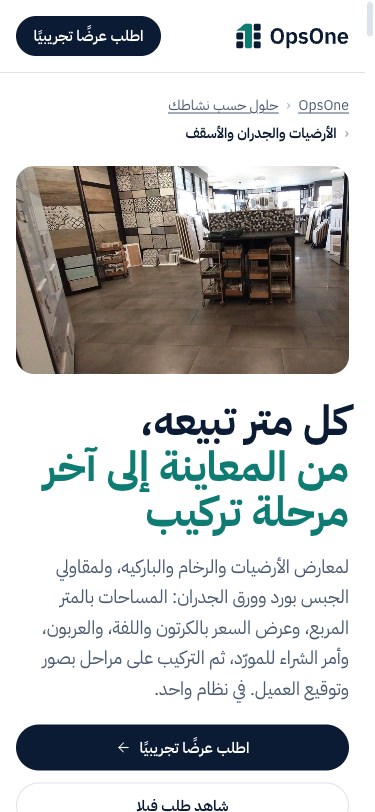
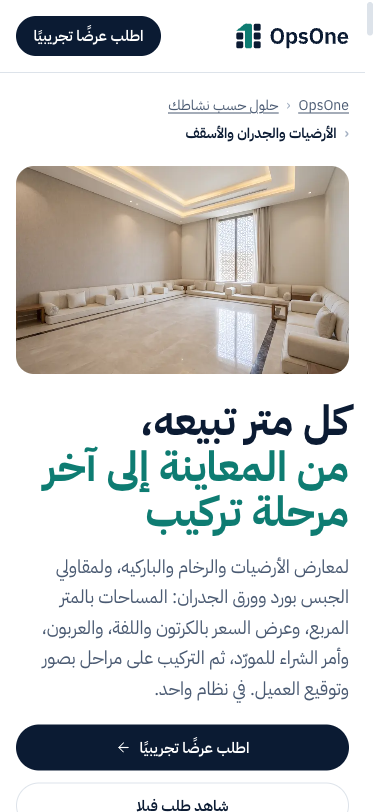
feat(marketing): flooring and smart-home page images from Magnific
Replace the photos on the flooring, walls and ceilings page and the
smart home, lighting and security page with eight AI images generated
on the Magnific account (Nano Banana 2.1, 2k, 520 credits): per page a
Saudi villa hero, a Riyadh showroom, a store shelf and a man's hand on
site. WebP in several widths, new OG images, credits.json updated, old
JPEGs removed. The smart-home showroom and field lanes now show photos
instead of the code drawings. Both compose.mjs files accept an optional
srcset for channel images. Home page cards point to the new heroes.

Changed region(s): [[0.0293, 0.1847, 0.9387, 0.4618]]

diff --git a/marketing/site-next/solutions/smart-home-lighting-security/index.html b/marketing/site-next/solutions/smart-home-lighting-security/index.html
@@ -29,7 +29,7 @@
 <link rel="manifest" href="../../site.webmanifest">
 <link rel="preload" href="../../assets/fonts/IBMPlexSansArabic-Bold.woff2" as="font" type="font/woff2" crossorigin>
 <link rel="preload" href="../../assets/fonts/IBMPlexSansArabic-Regular.woff2" as="font" type="font/woff2" crossorigin>
-<link rel="preload" as="image" href="img/sh-hero-1024.jpg" imagesrcset="img/sh-hero-820.jpg 820w, img/sh-hero-1024.jpg 1024w" imagesizes="(max-width: 760px) 100vw, 45vw" fetchpriority="high">
+<link rel="preload" as="image" href="img/sh-hero-1200.webp" imagesrcset="img/sh-hero-820.webp 820w, img/sh-hero-1200.webp 1200w, img/sh-hero-1600.webp 1600w" imagesizes="(max-width: 760px) 100vw, 45vw" fetchpriority="high">
 <link rel="stylesheet" href="../../styles.css">
 <link rel="stylesheet" href="../sector.css">
 <link rel="stylesheet" href="page.css">
@@ -63,7 +63,7 @@
         <a class="btn btn--quiet" href="#order">شاهد جدول أجهزة فيلا</a>
       </div>
     </div>
-    <figure class="shero__photo"><img src="img/sh-hero-1024.jpg" srcset="img/sh-hero-820.jpg 820w, img/sh-hero-1024.jpg 1024w" sizes="(max-width: 760px) 100vw, 45vw" width="1024" height="683" alt="كاميرتا مراقبة على شكل قبة مثبتتان على عمود" fetchpriority="high" decoding="async"></figure>
+    <figure class="shero__photo"><img src="img/sh-hero-1200.webp" srcset="img/sh-hero-820.webp 820w, img/sh-hero-1200.webp 1200w, img/sh-hero-1600.webp 1600w" sizes="(max-width: 760px) 100vw, 45vw" width="1200" height="805" alt="صالة فيلا مساءً بإضاءة مخفية في السقف والرفوف، ولوحة تحكم ذكية على الجدار، وكاميرا صغيرة في زاوية السقف" fetchpriority="high" decoding="async"></figure>
   </div>
   <div class="route" id="route">
     <div class="stations stations--6" role="group" aria-label="رحلة طلب فيلا ORD-2026-00317" id="stations" style="--n:6">
@@ -161,11 +161,9 @@
   <div class="wrap">
     <div class="sec-head"><h2 class="head" id="channels-title">ثلاث قنوات لبيع الأنظمة الذكية، ونظام واحد</h2><p class="lead">صالة العرض، ومتجر للأجهزة الجاهزة، والبيع الميداني في موقع العميل. كلها تصل إلى طلب واحد، وتقرير لكل قناة ولكل بائع.</p></div>
     <ol class="lanes">
-      <li class="lane"><figure class="lane__photo lane__photo--art"><svg class="art" viewBox="0 0 600 400" direction="ltr" role="img" aria-label="لوحة مشاهد ذكية على جدار بأربعة أزرار: ترحيب، وسهرة، ونوم، وخروج، ومشهد السهرة مضاء"><rect class="wall" x="0" y="0" width="600" height="400"/><circle class="glow" cx="300" cy="200" r="190"/><rect class="panel" x="215" y="58" width="170" height="284" rx="18"/><rect class="key" x="233" y="78" width="134" height="52" rx="10"/><text class="klbl" x="300" y="110" text-anchor="middle">ترحيب</text><rect class="key key--on" x="233" y="142" width="134" height="52" rx="10"/><text class="klbl" x="290" y="174" text-anchor="middle">سهرة</text><circle class="led led--on" cx="345" cy="168" r="5"/><rect class="key" x="233" y="206" width="134" height="52" rx="10"/><text class="klbl" x="300" y="238" text-anchor="middle">نوم</text><rect class="key" x="233" y="270" width="134" height="52" rx="10"/><text class="klbl" x="300" y="302" text-anchor="middle">خروج</text></svg></figure><div class="lane__text"><span class="lane__n nums" aria-hidden="true">1/3</span><h3><svg class="ic" aria-hidden="true"><use href="#i-store"/></svg>صالة العرض</h3><p>زائر الصالة الذي جرّب المفاتيح والمشاهد يُسجَّل اهتمامًا، ويُحجز له موعد معاينة، ثم يتحول إلى طلب بضغطة، ومعه ما طلبه ومن يتابعه.</p></div></li>
-      <li class="lane"><figure class="lane__photo"><img src="img/sh-ceiling-1000.jpg" width="1000" height="750" alt="سقف وجدران بألواح خشبية تضيئها سبوتات مخفية في مجاري السقف" loading="lazy" decoding="async"></figure><div class="lane__text"><span class="lane__n nums" aria-hidden="true">2/3</span><h3><svg class="ic" aria-hidden="true"><use href="#i-shopping-bag"/></svg>متجر الإنارة والأجهزة الجاهزة</h3><p>اللمبات الذكية والسبوتات والكاميرات الجاهزة تُباع من المخزون نفسه بدفع إلكتروني، وترسل لعميلك رابط سلة جاهزة بما يحتاجه.</p></div></li>
-      <li class="lane"><figure class="lane__photo lane__photo--art"><svg class="art" viewBox="0 0 600 400" direction="ltr" role="img" aria-label="جدار في مرحلة العظم تمر فيه مواسير التمديد إلى علب المفتاح والمقبس ونقطتي الكاميرا والشبكة"><rect class="wall" x="0" y="0" width="600" height="400"/><rect class="brick" x="-84" y="28" width="84" height="34"/><rect class="brick" x="0" y="28" width="84" height="34"/><rect class="brick" x="84" y="28" width="84" height="34"/><rect class="brick" x="168" y="28" width="84" height="34"/><rect class="brick" x="252" y="28" width="84" height="34"/><rect class="brick" x="336" y="28" width="84" height="34"/><rect class="brick" x="420" y="28" width="84" height="34"/><rect class="brick" x="504" y="28" width="84" height="34"/><rect class="brick" x="588" y="28" width="84" height="34"/><rect class="brick" x="-42" y="62" width="84" height="34"/><rect class="brick" x="42" y="62" width="84" height="34"/><rect class="brick" x="126" y="62" width="84" height="34"/><rect class="brick" x="210" y="62" width="84" height="34"/><rect class="brick" x="294" y="62" width="84" height="34"/><rect class="brick" x="378" y="62" width="84" height="34"/><rect class="brick" x="462" y="62" width="84" height="34"/><rect class="brick" x="546" y="62" width="84" height="34"/><rect class="brick" x="630" y="62" width="84" height="34"/><rect class="brick" x="-84" y="96" width="84" height="34"/><rect class="brick" x="0" y="96" width="84" height="34"/><rect class="brick" x="84" y="96" width="84" height="34"/><rect class="brick" x="168" y="96" width="84" height="34"/><rect class="brick" x="252" y="96" width="84" height="34"/><rect class="brick" x="336" y="96" width="84" height="34"/><rect class="brick" x="420" y="96" width="84" height="34"/><rect class="brick" x="504" y="96" width="84" height="34"/><rect class="brick" x="588" y="96" width="84" height="34"/><rect class="brick" x="-42" y="130" width="84" height="34"/><rect class="brick" x="42" y="130" width="84" height="34"/><rect class="brick" x="126" y="130" width="84" height="34"/><rect class="brick" x="210" y="130" width="84" height="34"/><rect class="brick" x="294" y="130" width="84" height="34"/><rect class="brick" x="378" y="130" width="84" height="34"/><rect class="brick" x="462" y="130" width="84" height="34"/><rect class="brick" x="546" y="130" width="84" height="34"/><rect class="brick" x="630" y="130" width="84" height="34"/><rect class="brick" x="-84" y="164" width="84" height="34"/><rect class="brick" x="0" y="164" width="84" height="34"/><rect class="brick" x="84" y="164" width="84" height="34"/><rect class="brick" x="168" y="164" width="84" height="34"/><rect class="brick" x="252" y="164" width="84" height="34"/><rect class="brick" x="336" y="164" width="84" height="34"/><rect class="brick" x="420" y="164" width="84" height="34"/><rect class="brick" x="504" y="164" width="84" height="34"/><rect class="brick" x="588" y="164" width="84" height="34"/><rect class="brick" x="-42" y="198" width="84" height="34"/><rect class="brick" x="42" y="198" width="84" height="34"/><rect class="brick" x="126" y="198" width="84" height="34"/><rect class="brick" x="210" y="198" width="84" height="34"/><rect class="brick" x="294" y="198" width="84" height="34"/><rect class="brick" x="378" y="198" width="84" height="34"/><rect class="brick" x="462" y="198" width="84" height="34"/><rect class="brick" x="546" y="198" width="84" height="34"/><rect class="brick" x="630" y="198" width="84" height="34"/><rect class="brick" x="-84" y="232" width="84" height="34"/><rect class="brick" x="0" y="232" width="84" height="34"/><rect class="brick" x="84" y="232" width="84" height="34"/><rect class="brick" x="168" y="232" width="84" height="34"/><rect class="brick" x="252" y="232" width="84" height="34"/><rect class="brick" x="336" y="232" width="84" height="34"/><rect class="brick" x="420" y="232" width="84" height="34"/><rect class="brick" x="504" y="232" width="84" height="34"/><rect class="brick" x="588" y="232" width="84" height="34"/><rect class="brick" x="-42" y="266" width="84" height="34"/><rect class="brick" x="42" y="266" width="84" height="34"/><rect class="brick" x="126" y="266" width="84" height="34"/><rect class="brick" x="210" y="266" width="84" height="34"/><rect class="brick" x="294" y="266" width="84" height="34"/><rect class="brick" x="378" y="266" width="84" height="34"/><rect class="brick" x="462" y="266" width="84" height="34"/><rect class="brick" x="546" y="266" width="84" height="34"/><rect class="brick" x="630" y="266" width="84" height="34"/><rect class="brick" x="-84" y="300" width="84" height="34"/><rect class="brick" x="0" y="300" width="84" height="34"/><rect class="brick" x="84" y="300" width="84" height="34"/><rect class="brick" x="168" y="300" width="84" height="34"/><rect class="brick" x="252" y="300" width="84" height="34"/><rect class="brick" x="336" y="300" width="84" height="34"/><rect class="brick" x="420" y="300" width="84" height="34"/><rect class="brick" x="504" y="300" width="84" height="34"/><rect class="brick" x="588" y="300" width="84" height="34"/><rect class="brick" x="-42" y="334" width="84" height="34"/><rect class="brick" x="42" y="334" width="84" height="34"/><rect class="brick" x="126" y="334" width="84" height="34"/><rect class="brick" x="210" y="334" width="84" height="34"/><rect class="brick" x="294" y="334" width="84" height="34"/><rect class="brick" x="378" y="334" width="84" height="34"/><rect class="brick" x="462" y="334" width="84" height="34"/><rect class="brick" x="546" y="334" width="84" height="34"/><rect class="brick" x="630" y="334" width="84" height="34"/><rect class="slab" x="0" y="0" width="600" height="28"/><rect class="slab" x="0" y="372" width="600" height="28"/>
-<path class="duct" d="M110 28 V200"/><path class="duct" d="M230 28 V150 H300 V300"/><path class="duct duct--data" d="M470 28 V92"/><path class="duct duct--data" d="M520 372 V290 H420 V250"/><rect class="box" x="92" y="200" width="36" height="36" rx="4"/><rect class="box" x="282" y="300" width="36" height="36" rx="4"/><rect class="box box--data" x="452" y="92" width="36" height="36" rx="4"/><rect class="box box--data" x="402" y="214" width="36" height="36" rx="4"/>
-<g class="alb"><text x="136" y="223">مفتاح</text><text x="326" y="323">مقبس</text><text x="444" y="115" text-anchor="end">كاميرا</text><text x="394" y="237" text-anchor="end">Cat6</text></g></svg></figure><div class="lane__text"><span class="lane__n nums" aria-hidden="true">3/3</span><h3><svg class="ic" aria-hidden="true"><use href="#i-map-pin"/></svg>البيع الميداني في موقع العميل</h3><p>يوزّع المشرف الفرصة أو طلب المعاينة على بائع ميداني، فيزور الفيلا وهي في العظم، ويسجّل صور الموقع ومقاساته من جواله، ثم يرسل عرض السعر ورابط توقيع العقد. ويُحسب الطلب على قناة البيع الميداني، وعمولته للبائع.</p></div></li>
+      <li class="lane"><figure class="lane__photo"><img src="img/sh-showroom-1200.webp" srcset="img/sh-showroom-640.webp 640w, img/sh-showroom-1200.webp 1200w" sizes="(max-width: 760px) 100vw, 50vw" width="1200" height="805" alt="صالة عرض أنظمة ذكية: جدار من المفاتيح ولوحات المشاهد، وشاشة تحكم، وركن جلوس بإضاءة قابلة للتعتيم" loading="lazy" decoding="async"></figure><div class="lane__text"><span class="lane__n nums" aria-hidden="true">1/3</span><h3><svg class="ic" aria-hidden="true"><use href="#i-store"/></svg>صالة العرض</h3><p>زائر الصالة الذي جرّب المفاتيح والمشاهد يُسجَّل اهتمامًا، ويُحجز له موعد معاينة، ثم يتحول إلى طلب بضغطة، ومعه ما طلبه ومن يتابعه.</p></div></li>
+      <li class="lane"><figure class="lane__photo"><img src="img/sh-store-1200.webp" srcset="img/sh-store-640.webp 640w, img/sh-store-1200.webp 1200w" sizes="(max-width: 760px) 100vw, 50vw" width="1200" height="805" alt="رف متجر عليه لمبات ذكية وسبوتات وكاميرات داخلية وأجراس باب بالفيديو، وصناديقها البيضاء" loading="lazy" decoding="async"></figure><div class="lane__text"><span class="lane__n nums" aria-hidden="true">2/3</span><h3><svg class="ic" aria-hidden="true"><use href="#i-shopping-bag"/></svg>متجر الإنارة والأجهزة الجاهزة</h3><p>اللمبات الذكية والسبوتات والكاميرات الجاهزة تُباع من المخزون نفسه بدفع إلكتروني، وترسل لعميلك رابط سلة جاهزة بما يحتاجه.</p></div></li>
+      <li class="lane"><figure class="lane__photo"><img src="img/sh-survey-1200.webp" srcset="img/sh-survey-640.webp 640w, img/sh-survey-1200.webp 1200w" sizes="(max-width: 760px) 100vw, 50vw" width="1200" height="805" alt="يد رجل بكم ثوب أبيض تحمل جهازًا لوحيًا بمخطط الفيلا، أمام جدار في مرحلة العظم تمر فيه مواسير التمديد إلى علب المفاتيح ونقطة الكاميرا" loading="lazy" decoding="async"></figure><div class="lane__text"><span class="lane__n nums" aria-hidden="true">3/3</span><h3><svg class="ic" aria-hidden="true"><use href="#i-map-pin"/></svg>البيع الميداني في موقع العميل</h3><p>يوزّع المشرف الفرصة أو طلب المعاينة على بائع ميداني، فيزور الفيلا وهي في العظم، ويسجّل صور الموقع ومقاساته من جواله، ثم يرسل عرض السعر ورابط توقيع العقد. ويُحسب الطلب على قناة البيع الميداني، وعمولته للبائع.</p></div></li>
     </ol>
   </div>
 </section>

diff --git a/marketing/site-next/solutions/flooring-walls-ceilings/index.html b/marketing/site-next/solutions/flooring-walls-ceilings/index.html
@@ -29,7 +29,7 @@
 <link rel="manifest" href="../../site.webmanifest">
 <link rel="preload" href="../../assets/fonts/IBMPlexSansArabic-Bold.woff2" as="font" type="font/woff2" crossorigin>
 <link rel="preload" href="../../assets/fonts/IBMPlexSansArabic-Regular.woff2" as="font" type="font/woff2" crossorigin>
-<link rel="preload" as="image" href="img/fwc-hero-1400.jpg" imagesrcset="img/fwc-hero-820.jpg 820w, img/fwc-hero-1400.jpg 1400w" imagesizes="(max-width: 760px) 100vw, 45vw" fetchpriority="high">
+<link rel="preload" as="image" href="img/fwc-hero-1200.webp" imagesrcset="img/fwc-hero-820.webp 820w, img/fwc-hero-1200.webp 1200w, img/fwc-hero-1600.webp 1600w" imagesizes="(max-width: 760px) 100vw, 45vw" fetchpriority="high">
 <link rel="stylesheet" href="../../styles.css">
 <link rel="stylesheet" href="../sector.css">
 <link rel="stylesheet" href="page.css">
@@ -63,7 +63,7 @@
         <a class="btn btn--quiet" href="#order">شاهد طلب فيلا</a>
       </div>
     </div>
-    <figure class="shero__photo"><img src="img/fwc-hero-1400.jpg" srcset="img/fwc-hero-820.jpg 820w, img/fwc-hero-1400.jpg 1400w" sizes="(max-width: 760px) 100vw, 45vw" width="1400" height="1050" alt="معرض بلاط وأرضيات: ألواح بنقشة الخشب، وجدار من البلاط المزخرف، وعربات عينات على أرضية بورسلين رمادية" fetchpriority="high" decoding="async"></figure>
+    <figure class="shero__photo"><img src="img/fwc-hero-1200.webp" srcset="img/fwc-hero-820.webp 820w, img/fwc-hero-1200.webp 1200w, img/fwc-hero-1600.webp 1600w" sizes="(max-width: 760px) 100vw, 45vw" width="1200" height="896" alt="مجلس فيلا منفّذ: أرضية بورسلين بلون الرخام البيج بشريط داكن، وسقف جبس بإضاءة مخفية، وجدار بورق جدران" fetchpriority="high" decoding="async"></figure>
   </div>
   <div class="route" id="route">
     <div class="stations stations--6" role="group" aria-label="رحلة طلب الفيلا ORD-2026-00318" id="stations" style="--n:6">
@@ -300,15 +300,15 @@
     <div class="sec-head"><h2 class="head" id="channels-title">ثلاث قنوات للبيع، وطلب واحد</h2><p class="lead">المعرض بعيناته، والمتجر لمواد التركيب والقطع الجاهزة، والبيع الميداني في موقع العميل. كلها تصل إلى طلب واحد، وتقرير لكل قناة ولكل بائع.</p></div>
     <ol class="zig">
       <li class="zig__row">
-        <figure class="zig__pic"><img src="img/fwc-samples-1000.jpg" width="1000" height="750" alt="عينات بلاط مزخرف وملوّن مصفوفة على حامل في ممر معرض" loading="lazy" decoding="async"></figure>
+        <figure class="zig__pic"><img src="img/fwc-showroom-1200.webp" srcset="img/fwc-showroom-640.webp 640w, img/fwc-showroom-1200.webp 1200w" sizes="(max-width: 760px) 100vw, 50vw" width="1200" height="896" alt="معرض أرضيات: ألواح بورسلين كبيرة على حوامل عرض، وعينات باركيه، وجدار من البلاط المزخرف" loading="lazy" decoding="async"></figure>
         <div class="zig__text"><span class="zig__n nums" aria-hidden="true">01</span><h3><svg class="ic" aria-hidden="true"><use href="#i-store"/></svg>المعرض والعينات</h3><p>زائر المعرض الذي وقف عند العينات يُسجَّل اهتمامًا بما اختاره، ويُحجز له موعد معاينة، ثم يتحول إلى طلب بضغطة، ومعه ما طلبه ومن يتابعه.</p></div>
       </li>
       <li class="zig__row">
-        <figure class="zig__pic"><img src="img/fwc-parquet-1000.jpg" width="1000" height="750" alt="أرضية باركيه من مربعات خشب البلوط" loading="lazy" decoding="async"></figure>
+        <figure class="zig__pic"><img src="img/fwc-store-1200.webp" srcset="img/fwc-store-640.webp 640w, img/fwc-store-1200.webp 1200w" sizes="(max-width: 760px) 100vw, 50vw" width="1200" height="896" alt="رفوف مخزن عليها لفات ورق جدران ووزرات وأكياس لاصق بلاط وصناديق فواصل ومالج" loading="lazy" decoding="async"></figure>
         <div class="zig__text"><span class="zig__n nums" aria-hidden="true">02</span><h3><svg class="ic" aria-hidden="true"><use href="#i-shopping-bag"/></svg>متجر المواد الجاهزة</h3><p>الوزرات ولفات ورق الجدران ومواد التركيب الجاهزة تُباع من المخزون نفسه بدفع إلكتروني، وترسل لعميلك رابط سلة جاهزة.</p></div>
       </li>
       <li class="zig__row">
-        <figure class="zig__pic"><img src="img/fwc-stone-1000.jpg" width="1000" height="750" alt="أرضية حجر بلاطات مستطيلة فاتحة مع شريط داكن" loading="lazy" decoding="async"></figure>
+        <figure class="zig__pic"><img src="img/fwc-measure-1200.webp" srcset="img/fwc-measure-640.webp 640w, img/fwc-measure-1200.webp 1200w" sizes="(max-width: 760px) 100vw, 50vw" width="1200" height="896" alt="يد رجل بكم ثوب أبيض تقيس غرفة في فيلا تحت الإنشاء بجهاز قياس ليزر، وفي يده الأخرى جهاز لوحي بمخطط الغرف" loading="lazy" decoding="async"></figure>
         <div class="zig__text"><span class="zig__n nums" aria-hidden="true">03</span><h3><svg class="ic" aria-hidden="true"><use href="#i-map-pin"/></svg>البيع الميداني في موقع العميل</h3><p>يوزّع المشرف فرصة البيع أو طلب المعاينة على بائع ميداني، فيقيس الغرف في موقع العميل ويسجّل المساحات وصور الموقع من جواله، ثم يرسل عرض السعر ورابط توقيع العقد. ويُنسب الطلب إلى قناة البيع الميداني، وعمولته للبائع.</p></div>
       </li>
     </ol>

diff --git a/marketing/site-next/index.html b/marketing/site-next/index.html
@@ -658,11 +658,11 @@
         <span class="solution__body"><b>شركات التشطيب والتجهيز</b><span>من المعاينة واعتماد التصميم، إلى دفعات مربوطة بمراحل التنفيذ والاستلام.</span><span class="solution__go">اقرأ الصفحة <svg class="ic ic--dir" aria-hidden="true"><use href="#i-arrow"/></svg></span></span>
       </a></li>
       <li><a class="solution" href="solutions/flooring-walls-ceilings/">
-        <img src="solutions/flooring-walls-ceilings/img/fwc-hero-820.jpg" width="820" height="615" alt="" loading="lazy" decoding="async">
+        <img src="solutions/flooring-walls-ceilings/img/fwc-hero-820.webp" width="820" height="612" alt="" loading="lazy" decoding="async">
         <span class="solution__body"><b>الأرضيات والجدران والأسقف</b><span>من القياس بالمتر المربع وعرض السعر بالكرتون واللفة، إلى أمر المورّد والتركيب على مراحل.</span><span class="solution__go">اقرأ الصفحة <svg class="ic ic--dir" aria-hidden="true"><use href="#i-arrow"/></svg></span></span>
       </a></li>
       <li><a class="solution" href="solutions/smart-home-lighting-security/">
-        <img src="solutions/smart-home-lighting-security/img/sh-hero-820.jpg" width="820" height="547" alt="" loading="lazy" decoding="async">
+        <img src="solutions/smart-home-lighting-security/img/sh-hero-820.webp" width="820" height="550" alt="" loading="lazy" decoding="async">
         <span class="solution__body"><b>المنازل الذكية والإنارة والأنظمة الأمنية</b><span>من المعاينة وجدول الأجهزة، إلى التمديد قبل التشطيب والتركيب والبرمجة والتسليم.</span><span class="solution__go">اقرأ الصفحة <svg class="ic ic--dir" aria-hidden="true"><use href="#i-arrow"/></svg></span></span>
       </a></li>
       <li><a class="solution" href="solutions/outdoor-spaces/">

diff --git a/marketing/site-next/solutions/smart-home-lighting-security/_og.html b/marketing/site-next/solutions/smart-home-lighting-security/_og.html
@@ -5,5 +5,5 @@
 .t img{height:34px;width:auto;align-self:flex-start;margin-bottom:auto}
 h1{font-size:64px;line-height:1.25;color:var(--ink)}h1 span{color:var(--teal)}
 p{margin:20px 0 70px;color:var(--muted);font-size:22px}
-.ph{background:url(img/sh-hero-1024.jpg) 35% center/cover}</style></head>
+.ph{background:url(img/sh-hero-1200.webp) left center/cover}</style></head>
 <body><div class="og"><div class="t"><img src="../../assets/brand/opsone-logo.svg" alt=""><h1>كل نظام ذكي تركّبه،<br><span>من المعاينة إلى التسليم</span></h1><p>برنامج إدارة شركات المنازل الذكية والإنارة والكاميرات</p></div><div class="ph"></div></div></body></html>
